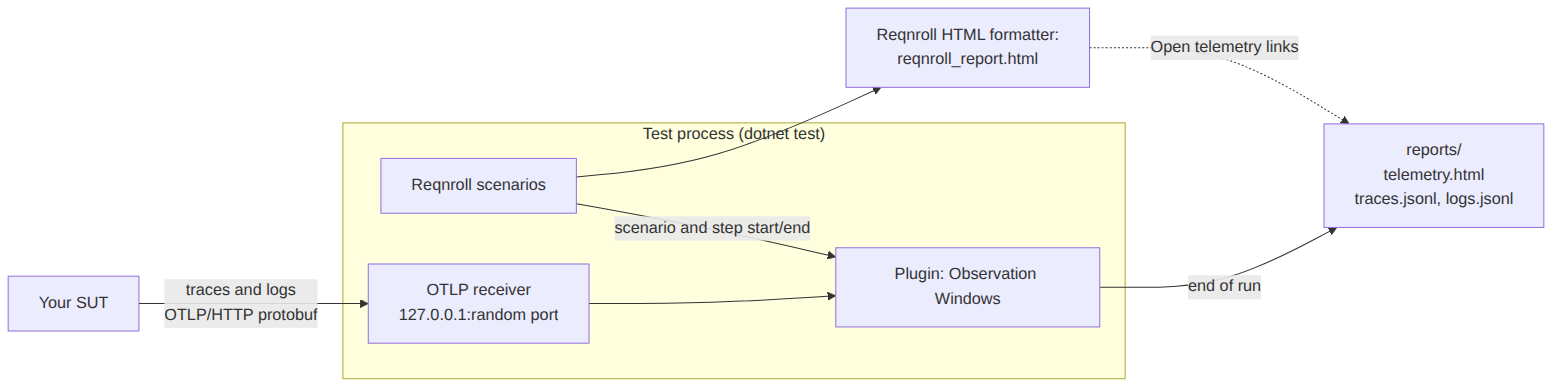
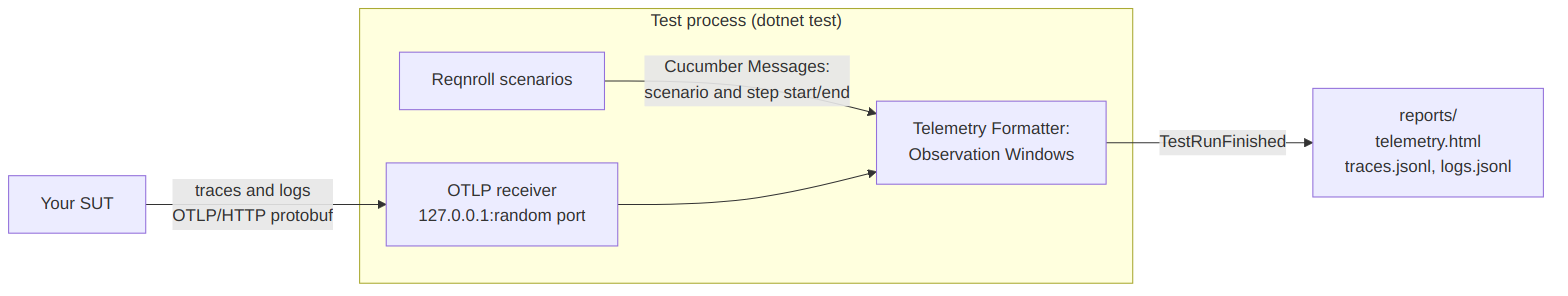
README describes the Telemetry Formatter; migration note from alpha
Quickstart switches the formatter on with an `opentelemetry` entry, Configuration
lists outputFilePath/tracesFilePath/logsFilePath and REQNROLL_FORMATTERS*, Limitations
get the summary-only Window Overlap line and repeated feature hooks. The diagram has
no links from the Reqnroll report anymore.

diff --git a/README.md b/README.md
@@ -3,7 +3,7 @@
 [![CI](https://github.com/siavol/storks-opentelemetry-reqnroll/actions/workflows/ci.yml/badge.svg?branch=main)](https://github.com/siavol/storks-opentelemetry-reqnroll/actions/workflows/ci.yml?query=branch%3Amain)
 [![Quality Gate Status](https://sonarcloud.io/api/project_badges/measure?project=siavol_storks-opentelemetry-reqnroll&metric=alert_status)](https://sonarcloud.io/summary/new_code?id=siavol_storks-opentelemetry-reqnroll)
 
-A Reqnroll plugin that receives your application's OpenTelemetry traces and logs during `dotnet test` and shows them by scenario and step in a Telemetry Viewer linked from the Reqnroll report.
+A Reqnroll formatter that receives your application's OpenTelemetry traces and logs during `dotnet test` and shows them by scenario and step in a Telemetry Viewer.
 
 ![Telemetry Viewer: a failed scenario with the span waterfall of its first step and the step's logs, including the error logged by the pricing service](https://raw.githubusercontent.com/siavol/storks-opentelemetry-reqnroll/main/docs/images/telemetry-viewer.png)
 
@@ -11,7 +11,7 @@ A Reqnroll plugin that receives your application's OpenTelemetry traces and logs
 
 A scenario goes red: `Expected: 50m But was: 0m`. The test sees only the result; the cause is inside the system under test (SUT).
 
-The plugin links every scenario and step in the Reqnroll report to the traces and logs it produced. The cause is right next to the red step, with no digging through Jaeger or log files. The viewer is one HTML file next to the report, so it works from a downloaded CI artifact too.
+The plugin shows every scenario and step of the run next to the traces and logs it produced. The cause is right next to the red step, with no digging through Jaeger or log files. The viewer is one HTML file, so it works from a downloaded CI artifact too.
 
 ## Quickstart
 
@@ -20,7 +20,7 @@ You need:
 - a test project on `net10.0` or later with Reqnroll 3.x;
 - an application that your tests start locally and that exports OpenTelemetry over OTLP (step 2).
 
-**1. Install the package** into the test project. The plugin activates by being referenced; there is nothing to register in `reqnroll.json`.
+**1. Install the package** into the test project:
 
 ```sh
 dotnet add package Storks.OpenTelemetry.Reqnroll
@@ -62,16 +62,20 @@ builder.CreateResourceBuilder<ProjectResource>("orders-api")
     });
 ```
 
-**3. Put the Reqnroll report next to the viewer**, so that its links work. Reqnroll writes no HTML report unless a formatter is configured; add a `reqnroll.json` to the test project:
+While the formatter is switched off (step 3), `telemetry.IsEnabled` is false and the map is empty, so the hook stays the same either way.
+
+**3. Switch the formatter on.** The plugin is a Reqnroll formatter named `opentelemetry`; without its entry in `formatters` it does nothing. Add a `reqnroll.json` to the test project:
 
 ```json
 {
   "$schema": "https://schemas.reqnroll.net/reqnroll-config-latest.json",
   "formatters": {
-    "html": { "outputFilePath": "reports/reqnroll_report.html" }
+    "opentelemetry": {}
   }
 }
 ```
+
+It works alone or next to other formatters such as `html` and `message`.
 
 **4. Run the tests:**
 
@@ -79,23 +83,22 @@ builder.CreateResourceBuilder<ProjectResource>("orders-api")
 dotnet test
 ```
 
-**5. Open the report.** The run writes everything to the `reports` folder next to the test assembly, for example `bin/Debug/net10.0/reports/`:
+**5. Open the viewer.** With the default paths, the run writes to the `reports` folder in the working directory of the tests; for `dotnet test` that is the output folder, for example `bin/Debug/net10.0/reports/`:
 
 | File | What it is |
 | --- | --- |
-| `reqnroll_report.html` | The Reqnroll report (from step 3); every step and scenario links to the viewer. |
-| `telemetry.html` | The Telemetry Viewer: the run's traces and logs by scenario and step. Opens on its own too. |
+| `telemetry.html` | The Telemetry Viewer: the run's features, scenarios and steps with their traces and logs. |
 | `traces.jsonl`, `logs.jsonl` | All of the run's telemetry in OTLP/JSON Lines. |
 
-Open `reqnroll_report.html` and follow **Open telemetry** on a step, or open `telemetry.html` directly.
+To put them elsewhere, see [Configuration](#configuration).
 
 ## How it works
 
 <!-- Generated from docs/images/how-it-works.mmd. A PNG, because nuget.org renders no Mermaid. Regenerate:
      npx -p @mermaid-js/mermaid-cli@11.4.2 mmdc -i docs/images/how-it-works.mmd -o docs/images/how-it-works.png -s 2 -b white -->
-![The SUT sends traces and logs over OTLP/HTTP to the plugin's receiver inside the test process; the plugin takes scenario and step start and end from the Reqnroll scenarios and, at the end of the run, writes telemetry.html, traces.jsonl and logs.jsonl to the reports folder, where the Open telemetry links of reqnroll_report.html lead](https://raw.githubusercontent.com/siavol/storks-opentelemetry-reqnroll/main/docs/images/how-it-works.png)
+![The SUT sends traces and logs over OTLP/HTTP to the plugin's receiver inside the test process; the formatter takes scenario and step start and end from Reqnroll's Cucumber Messages and, at the end of the run, writes telemetry.html, traces.jsonl and logs.jsonl](https://raw.githubusercontent.com/siavol/storks-opentelemetry-reqnroll/main/docs/images/how-it-works.png)
 
-1. **Receiver.** When the test run starts, the plugin starts an OTLP/HTTP (protobuf) receiver inside the test process, on a random port of `127.0.0.1`. It accepts traces and logs; metrics are accepted and dropped.
+1. **Receiver.** When the test run starts and the formatter is switched on, the plugin starts an OTLP/HTTP (protobuf) receiver inside the test process, on a random port of `127.0.0.1`. It accepts traces and logs; metrics are accepted and dropped. Switched off, it starts nothing.
 2. **Exporter settings.** `ITelemetryEndpoint.GetExporterEnvironment()` returns the variables that send the SUT's OTLP exporter there:
 
    | Variable | Value |
@@ -105,11 +108,11 @@ Open `reqnroll_report.html` and follow **Open telemetry** on a step, or open `te
    | `OTEL_BSP_SCHEDULE_DELAY` | `100` (ms; the SDK default is 5000) |
    | `OTEL_BLRP_SCHEDULE_DELAY` | `100` (ms; the SDK default is 1000) |
 
-3. **Observation Windows.** Every scenario and every step has an Observation Window, the time from its start to its end. The plugin's hooks open a scenario's window before your `[BeforeScenario]` hooks and close it after your `[AfterScenario]` hooks, so the telemetry of your scenario hooks belongs to the scenario too (the viewer shows it with **Show hooks**).
-4. **Attribution.** At the end of the run, each span is attributed to the window it started in, and each log to the window it was written in. Telemetry outside every scenario window, such as SUT startup or your run hooks, is Unattributed Telemetry and has its own section in the viewer.
-5. **Output.** After your `[AfterTestRun]` hooks, the plugin writes `telemetry.html`, `traces.jsonl` and `logs.jsonl` and stops the receiver. The Reqnroll report gets an **Open telemetry** link on every step and scenario.
+3. **Observation Windows.** Every scenario and every step has an Observation Window, the time from its start to its end. The formatter takes them from the timestamps in Reqnroll's Cucumber Messages. A scenario's window includes your `[BeforeScenario]` and `[AfterScenario]` hooks, so their telemetry belongs to the scenario too (the viewer shows it with **Show hooks**).
+4. **Attribution.** At the end of the run, each span is attributed to the window it started in, and each log to the window it was written in. Telemetry outside every scenario window, such as SUT startup or your run and feature hooks, is Unattributed Telemetry and has its own section in the viewer.
+5. **Output.** On `TestRunFinished`, which Reqnroll sends after all your `[AfterTestRun]` hooks, the plugin stops the receiver and writes `telemetry.html`, `traces.jsonl` and `logs.jsonl`. It writes nothing into other formatters' reports.
 
-The plugin never changes a scenario's result. Its own lines start with `[Storks.OpenTelemetry]`. Problems during a scenario (a rejected OTLP request) go to that scenario's test output. The end-of-run lines (where the files were written, a file it could not write, the Window Overlap summary) belong to no test, so they go to the console of the test process; `dotnet test` shows that only at detailed verbosity:
+The plugin never changes a scenario's result. All of its output comes at the end of the run, in lines that start with `[Storks.OpenTelemetry]`. A normal run prints one line, `telemetry written to <path of telemetry.html>`. Problems (a rejected OTLP request, a file it could not write) take one line per kind, with a count, and the Window Overlap summary is added if there was an overlap. These lines belong to no test, so they go to the console of the test process; `dotnet test` shows that only at detailed verbosity:
 
 ```sh
 dotnet test --logger "console;verbosity=detailed"
@@ -117,13 +120,25 @@ dotnet test --logger "console;verbosity=detailed"
 
 ## Configuration
 
-The plugin has one setting, an environment variable of the test process:
+The settings are in the `opentelemetry` entry of `formatters` in `reqnroll.json`, for example:
 
-| Variable | Default | What it does |
+```json
+"opentelemetry": { "outputFilePath": "reports/telemetry.html", "tracesFilePath": "reports/otlp/traces.jsonl" }
+```
+
+| Setting | Default | What it is |
 | --- | --- | --- |
-| `STORKS_OTEL_REPORT_DIR` | `reports` next to the test assembly (`bin/<configuration>/<tfm>/reports`) | Folder for `telemetry.html`, `traces.jsonl` and `logs.jsonl`. If you change it, point the Reqnroll HTML formatter at the same folder, or the report's links break. |
+| `outputFilePath` | `reports/telemetry.html` | The Telemetry Viewer. |
+| `tracesFilePath` | `traces.jsonl` next to the viewer | The run's spans in OTLP/JSON Lines. |
+| `logsFilePath` | `logs.jsonl` next to the viewer | The run's logs in OTLP/JSON Lines. |
 
-The exporter variables in the table above are not plugin settings: they are what the helper hands to your SUT.
+Relative paths are taken from the working directory of the tests, as for Reqnroll's own formatters. On Reqnroll 3.3 and later the paths take the same placeholders as theirs, such as `{timestamp}`.
+
+Reqnroll's formatter environment variables work too: `REQNROLL_FORMATTERS_OPENTELEMETRY=true` switches the formatter on with the defaults, `=false` switches it off, and `=outputFilePath=...;logsFilePath=...` replaces the entry from `reqnroll.json`. `REQNROLL_FORMATTERS_DISABLED=true` switches off all formatters, this one included.
+
+Reqnroll ignores unknown names in `formatters` without a word. A typo in `opentelemetry` looks exactly like a switched-off formatter: no receiver, no files and not a single line in the output.
+
+The exporter variables in [How it works](#how-it-works) are not plugin settings: they are what the helper hands to your SUT.
 
 ## Limitations
 
@@ -135,20 +150,30 @@ The receiver listens on `127.0.0.1` only, on a random port. The SUT must run on 
 
 Attribution goes by time only. When scenarios run in parallel, the Observation Window of one scenario opens while another one is still open: that is a Window Overlap. Telemetry that started in the overlap shows up in each of the overlapping scenarios, because the plugin cannot tell which scenario caused it.
 
-The plugin warns about it. The test output of a scenario gets a line like:
+The plugin warns about it with one line at the end of the run (with `dotnet test`, at detailed verbosity, see [How it works](#how-it-works)):
 
 ```text
-[Storks.OpenTelemetry] Window Overlap: scenario 'Pricing: Apply discount' started while 'Checkout: Pay by card' was still running, so telemetry in the overlap shows up in each of the overlapping scenarios. See https://github.com/siavol/storks-opentelemetry-reqnroll/blob/main/README.md#window-overlap
+[Storks.OpenTelemetry] Window Overlap: 3 scenario windows opened while another was open; telemetry in an overlap shows up in each of the overlapping scenarios. See https://github.com/siavol/storks-opentelemetry-reqnroll/blob/main/README.md#window-overlap
 ```
 
-and the end of the run writes one summary line with the number of overlaps to the console of the test process (with `dotnet test`, at detailed verbosity, see [How it works](#how-it-works)). In a parallel run the warning can land in the output of a neighbouring scenario; both scenario names are in the text. Sequential runs print nothing.
+Sequential runs print nothing.
 
 To get exact Attribution, run the scenarios whose telemetry you care about sequentially (do not enable parallel execution for those features in your test framework). Attribution by W3C trace context (`traceparent`), which would make parallel runs exact, is planned for 0.2.
+
+### Repeated feature hooks
+
+Reqnroll's messages for the second and later runs of a `[BeforeFeature]` or `[AfterFeature]` hook name the start of its first run. The plugin pairs each finish with the earliest unfinished start of the same hook: exact when features run one after another, but in a parallel run two runs of the same hook can swap windows. A hook that started but never finished is not shown. Feature and run hooks look the same in the viewer (`BeforeTestRun` or `AfterTestRun`, with the method name), because the messages do not tell them apart. All of this affects only the hooks in Unattributed Telemetry.
 
 ### Export delay and the end of the run
 
 Telemetry is attributed by its own timestamps at the end of the run, so a span that is exported late still lands in the right window, and a span that started in a step but finished after it still belongs to that step. There is no pause before a window closes, and none is needed for that. What matters is that the telemetry reaches the receiver before the run ends:
 
-- The receiver stops after your `[AfterTestRun]` hooks. Whatever the SUT exports after that is lost. The helper shortens the exporters' batch delay to 100 ms; with the SDK defaults (5 s for spans) the last scenarios' telemetry would usually still be waiting in the SUT when it stops. Stop the SUT in your `[AfterTestRun]` hook, and stop it gracefully if you can, so that it flushes on exit.
+- The receiver stops on `TestRunFinished`, after your `[AfterTestRun]` hooks. Whatever the SUT exports after that is lost. The helper shortens the exporters' batch delay to 100 ms; with the SDK defaults (5 s for spans) the last scenarios' telemetry would usually still be waiting in the SUT when it stops. Stop the SUT in your `[AfterTestRun]` hook, and stop it gracefully if you can, so that it flushes on exit.
 - Work the SUT does in the background after a step ends (queues, timers) starts in a later window, or outside every window, and is attributed there.
 - The files are written at the end of the run. A run that is aborted before its end writes no files.
+
+## Migrating from 0.1.0-alpha.1
+
+- The plugin no longer switches on by being referenced: add `"opentelemetry": {}` to `formatters` in `reqnroll.json` ([Quickstart](#quickstart), step 3).
+- `STORKS_OTEL_REPORT_DIR` is gone: set `outputFilePath` in that entry, and `tracesFilePath` and `logsFilePath` if you want those files elsewhere.
+- The Reqnroll report has no **Open telemetry** links anymore: open `telemetry.html` directly. If you kept the `html` formatter only for the links, you can drop it.
